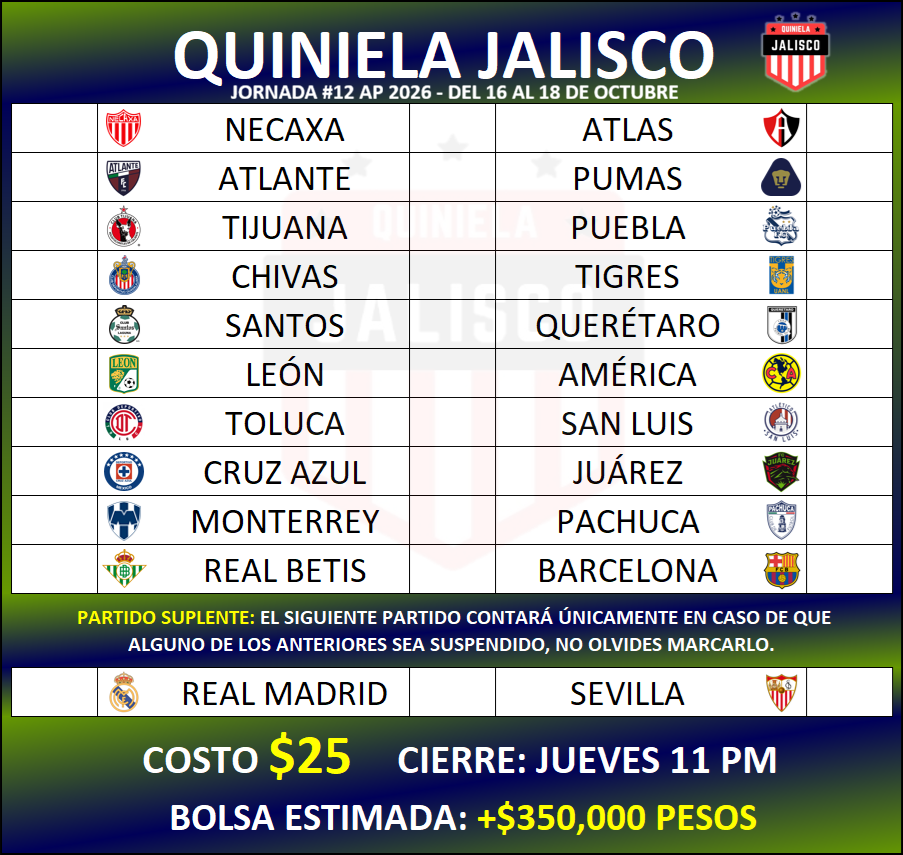
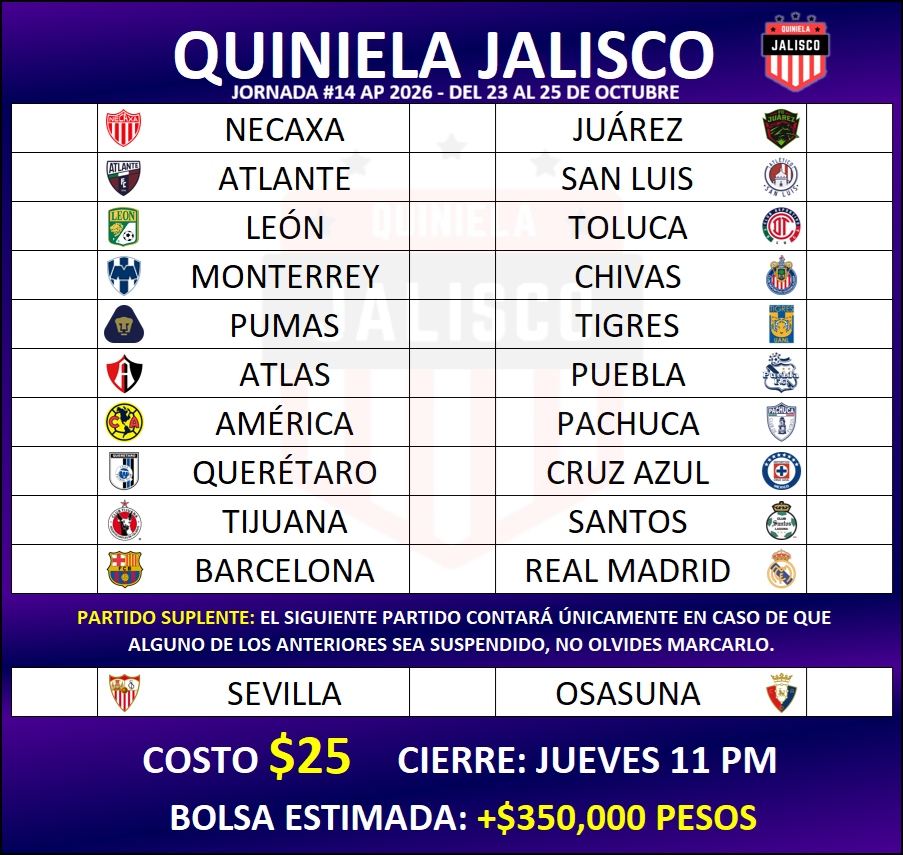
Jornada 14 A26

diff --git a/11/styles11.css b/11/styles11.css
@@ -106,8 +106,8 @@ body{
     margin-top: 8.5%;
     border-top: solid 1px black;
     border-radius: 0 0 14px 14px;
-    background: -webkit-linear-gradient(0.49turn, rgb(56,84,40) -7%, rgb(0,0,90) 80%);
-    background: linear-gradient(0.49turn, rgb(56,84,40) -7%, rgb(0,0,90) 80%);
+    background: -webkit-linear-gradient(0.49turn, rgb(33,0,114) -7%, rgb(0,0,90) 80%);
+    background: linear-gradient(0.49turn, rgb(33,0,114) -7%, rgb(0,0,90) 80%);
 }
 
 .text-lg{
